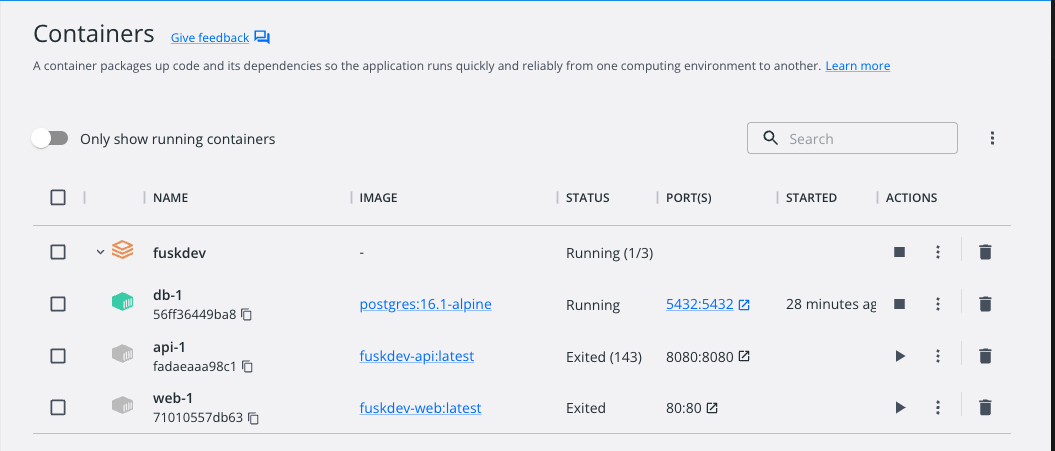
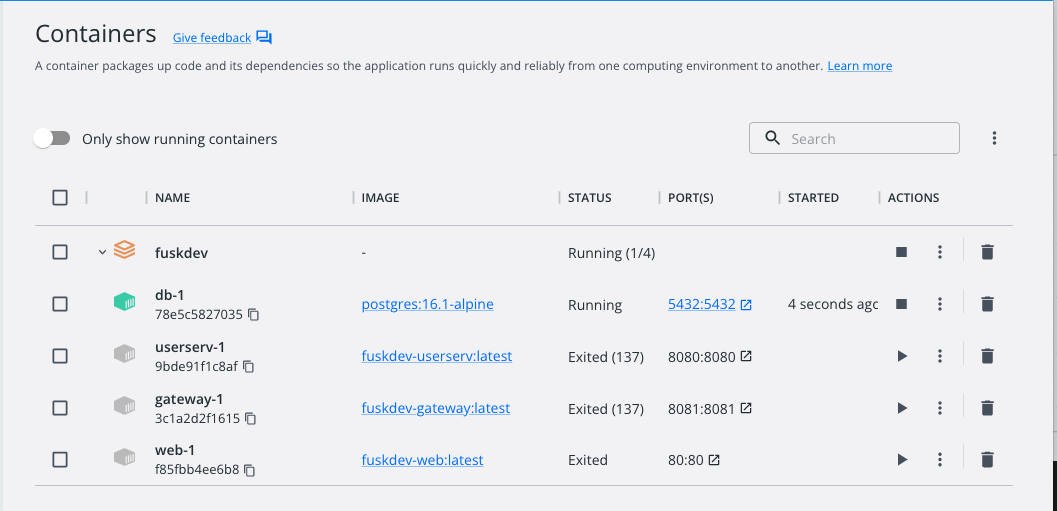
Update docs

diff --git a/README.md b/README.md
@@ -1,6 +1,6 @@
 # FuskDev
 
-Fuskdev short for full stack development. A template for developing api and web containerized using sprint boot framework and react ui library.
+Fuskdev short for full stack development. A template for developing api and web containerized using sprint boot framework, GraphQL and react ui library.
 
 ## How to run
 
@@ -16,23 +16,23 @@ Follow Docker Desktop installation [Guide](https://www.docker.com/products/docke
 
 Open browser and enter [localhost](http://localhost) in url bar. You will find the icon shown in default page that will lead to user management.
 
-![dashboard](docs/alpha1.png?raw=true 'Dashboard')
+![dashboard](docs/alpha1.png?raw=true "Dashboard")
 
-![userlist](docs/alpha2.png?raw=true 'User List')
+![userlist](docs/alpha2.png?raw=true "User List")
 
-![usercreate](docs/alpha3.png?raw=true 'User Create')
+![usercreate](docs/alpha3.png?raw=true "User Create")
 
 ## Start Developing
 
-The system is containerized in three parts: Database, API and Web. Turnoff API and Web in docker desktop container dashboard.
+The system is containerized in four parts: Database, USERSERV, GATEWAY and Web. Turnoff userserv-1, gateway-1 and web-1 in docker desktop container dashboard.
 
-![dockercontainer](docs/dockercontainer.png?raw=true 'Docker container')
+![dockercontainer](docs/dockercontainer.png?raw=true "Docker container")
 
 ### GATEWAY
 
-- GATEWAY is [GraphQL](https://graphql.org/) based implemented in springboot.
+- GATEWAY is [GraphQL](https://graphql.org/) based implemented in spring boot.
 - Follow how to install [Java](https://www.java.com/en/download/) and [Gradle](https://gradle.org/install/) in your system.
-- It's ideal to develop springboot using intellij. Follow how to install [here](https://www.jetbrains.com/idea/download/).
+- It's ideal to develop spring boot using intellij. Follow how to install [here](https://www.jetbrains.com/idea/download/).
 - After successfull installation open the folder <strong>userserv</strong> in intellij and wait to finish sync process.
 - Configure VM options in build process to use <strong>application-dev.properties</strong> containing USERSERV connection service.
 
@@ -40,7 +40,7 @@ The system is containerized in three parts: Database, API and Web. Turnoff API a
   -Dspring.profiles.active=dev
   ```
 
-  ![dev](docs/gatewaydevconfig.png?raw=true 'Dev config')
+  ![dev](docs/gatewaydevconfig.png?raw=true "Dev config")
 
 - Alternatively you can use gradle command to run the API in terminal regardless which editor you use. In project root folder execute
 
@@ -52,13 +52,13 @@ The system is containerized in three parts: Database, API and Web. Turnoff API a
 - GATEWAY depends its datasource from USERSERV and a necessary to be running.
 - Test GATEWAY in browser by entering [localhost:8081/graphiql?path=/graphql](http://localhost:8081/graphiql?path=/graphql)
 
-  ![api](docs/graphqltest.png?raw=true 'API Test')
+  ![api](docs/graphqltest.png?raw=true "API Test")
 
 ### USERSERV
 
-- USERSERV is [REST](https://spring.io/guides/tutorials/rest) based implemented in springboot.
+- USERSERV is [REST](https://spring.io/guides/tutorials/rest) based implemented in spring boot.
 - Follow how to install [Java](https://www.java.com/en/download/) and [Gradle](https://gradle.org/install/) in your system.
-- It's ideal to develop springboot using intellij. Follow how to install [here](https://www.jetbrains.com/idea/download/).
+- It's ideal to develop spring boot using intellij. Follow how to install [here](https://www.jetbrains.com/idea/download/).
 - After successfull installation open the folder <strong>userserv</strong> in intellij and wait to finish sync process.
 - Configure VM options in build process to use <strong>application-dev.properties</strong> containing database connection service.
 
@@ -66,7 +66,7 @@ The system is containerized in three parts: Database, API and Web. Turnoff API a
   -Dspring.profiles.active=dev
   ```
 
-  ![dev](docs/userservdevconfig.png?raw=true 'Dev config')
+  ![dev](docs/userservdevconfig.png?raw=true "Dev config")
 
 - Alternatively you can use gradle command to run the API in terminal regardless which editor you use. In project root folder execute
 
@@ -77,7 +77,7 @@ The system is containerized in three parts: Database, API and Web. Turnoff API a
 
 - Test USERSERV in browser by entering [localhost:8080/api/user](http://localhost:8080/api/user)
 
-  ![api](docs/apitest.png?raw=true 'API Test')
+  ![api](docs/apitest.png?raw=true "API Test")
 
 ### Web
 
@@ -94,4 +94,4 @@ The system is containerized in three parts: Database, API and Web. Turnoff API a
 
 - Test Web by entering [localhost:3000](http://localhost:3000)
 
-  ![web](docs/alphadev1.png?raw=true 'Web')
+  ![web](docs/alphadev1.png?raw=true "Web")
